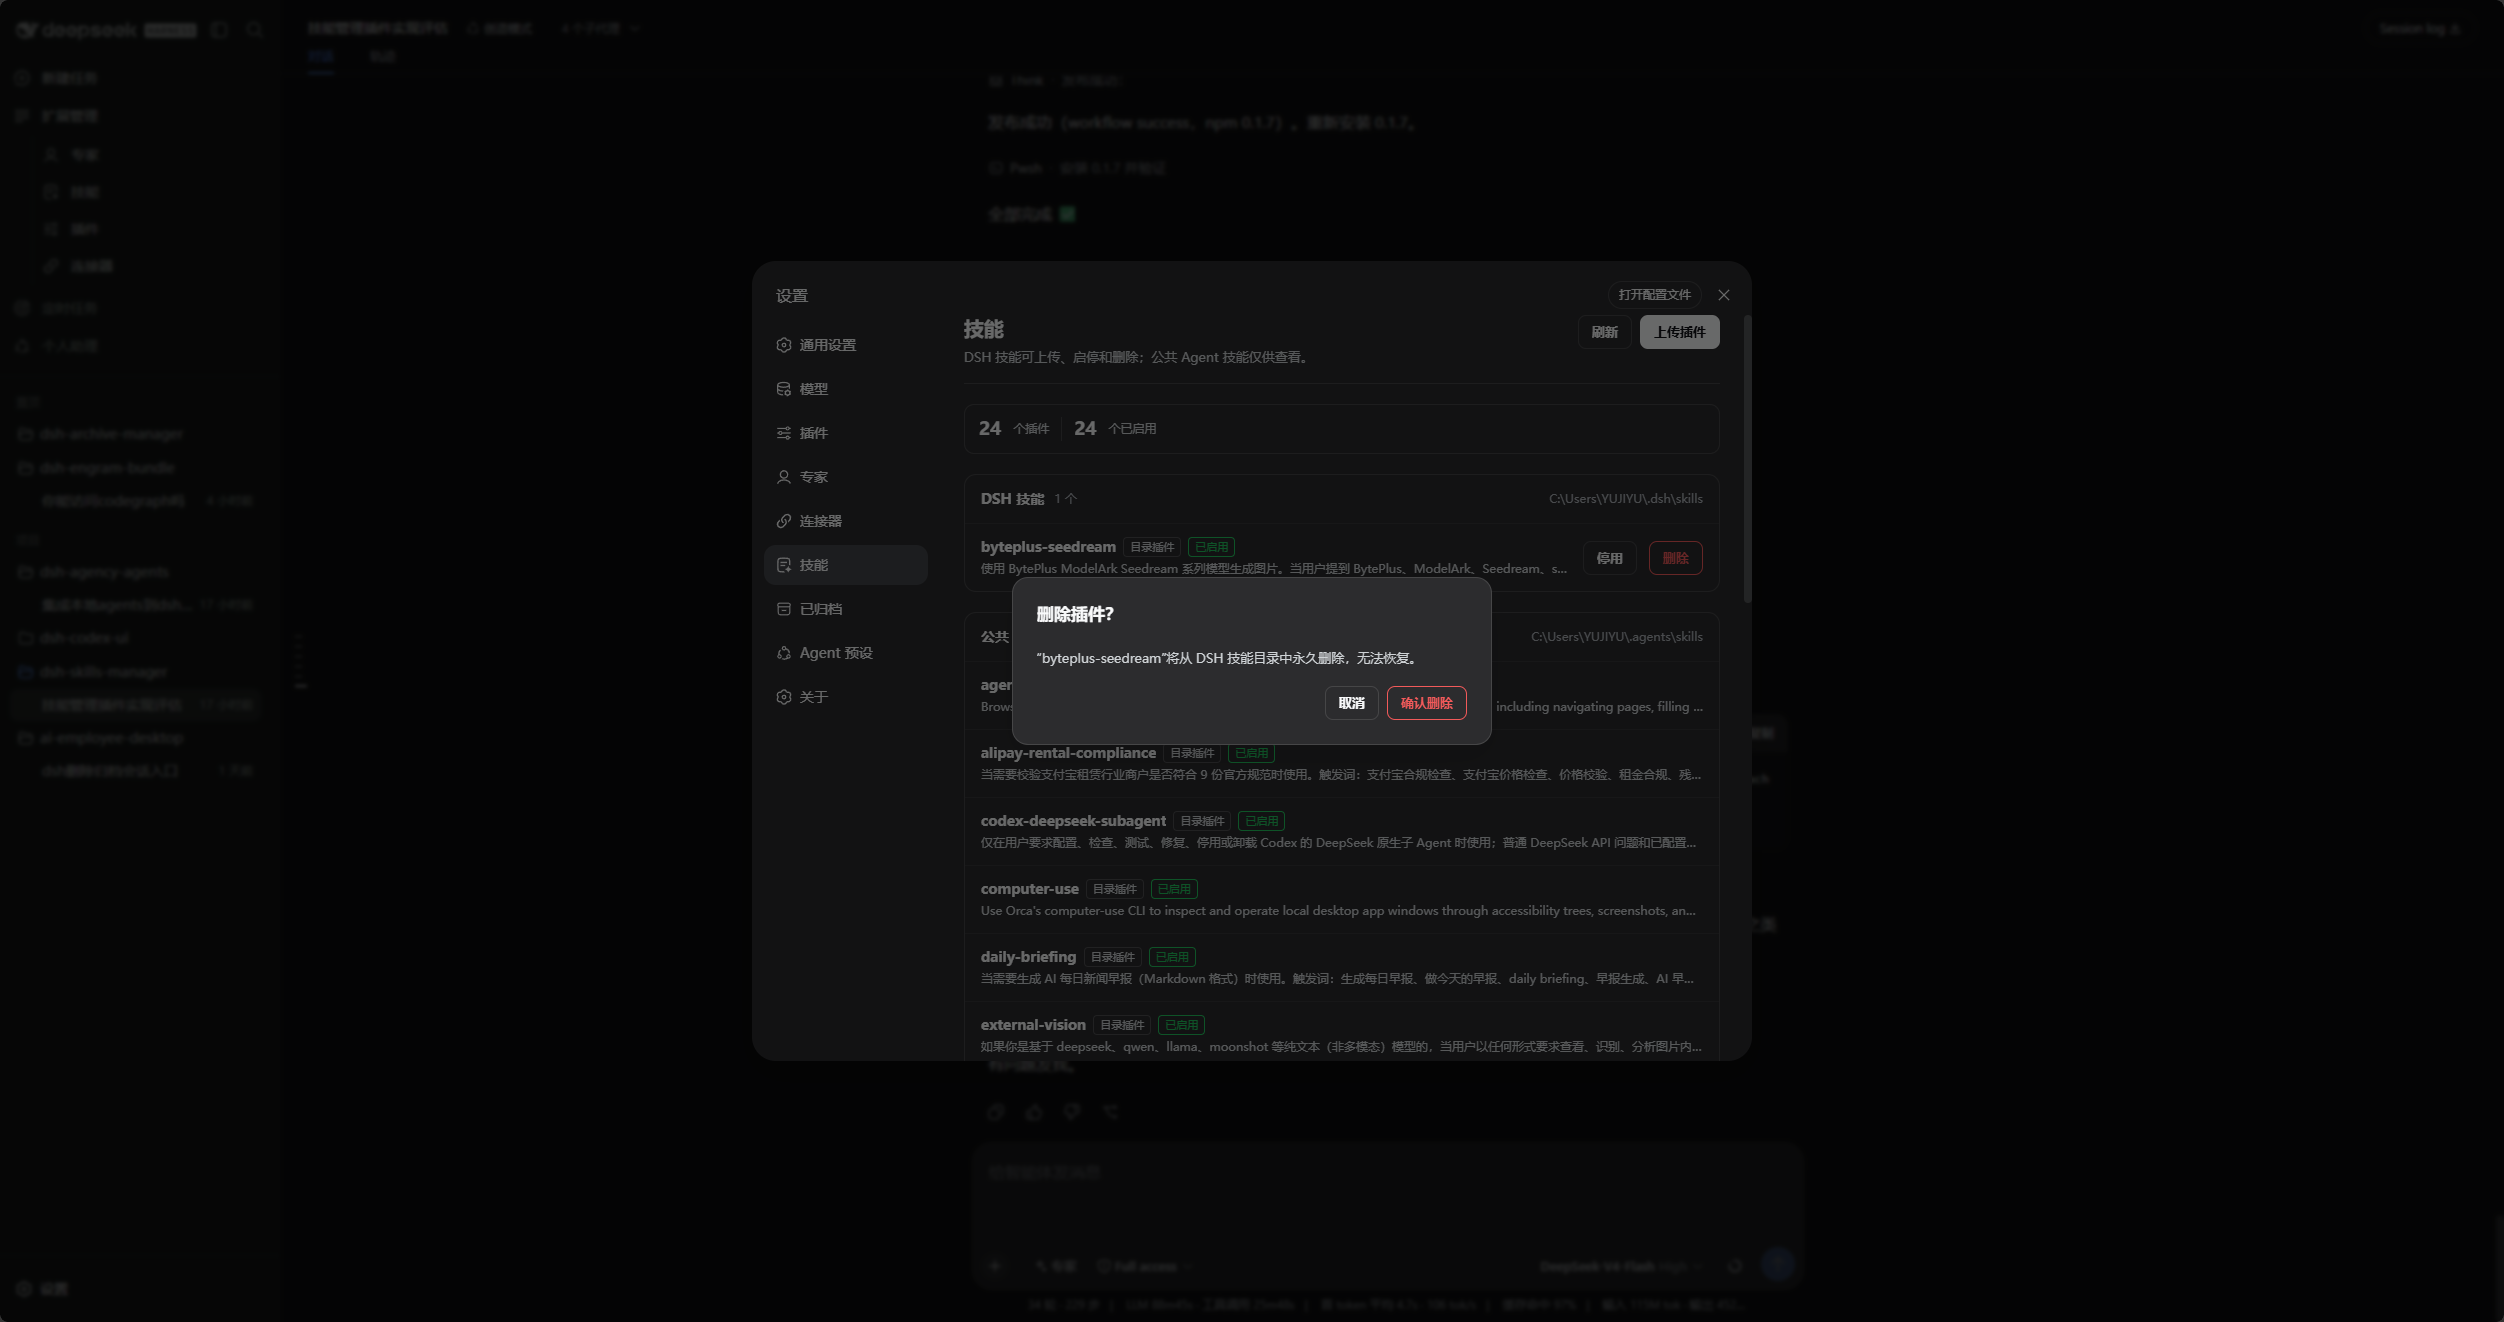
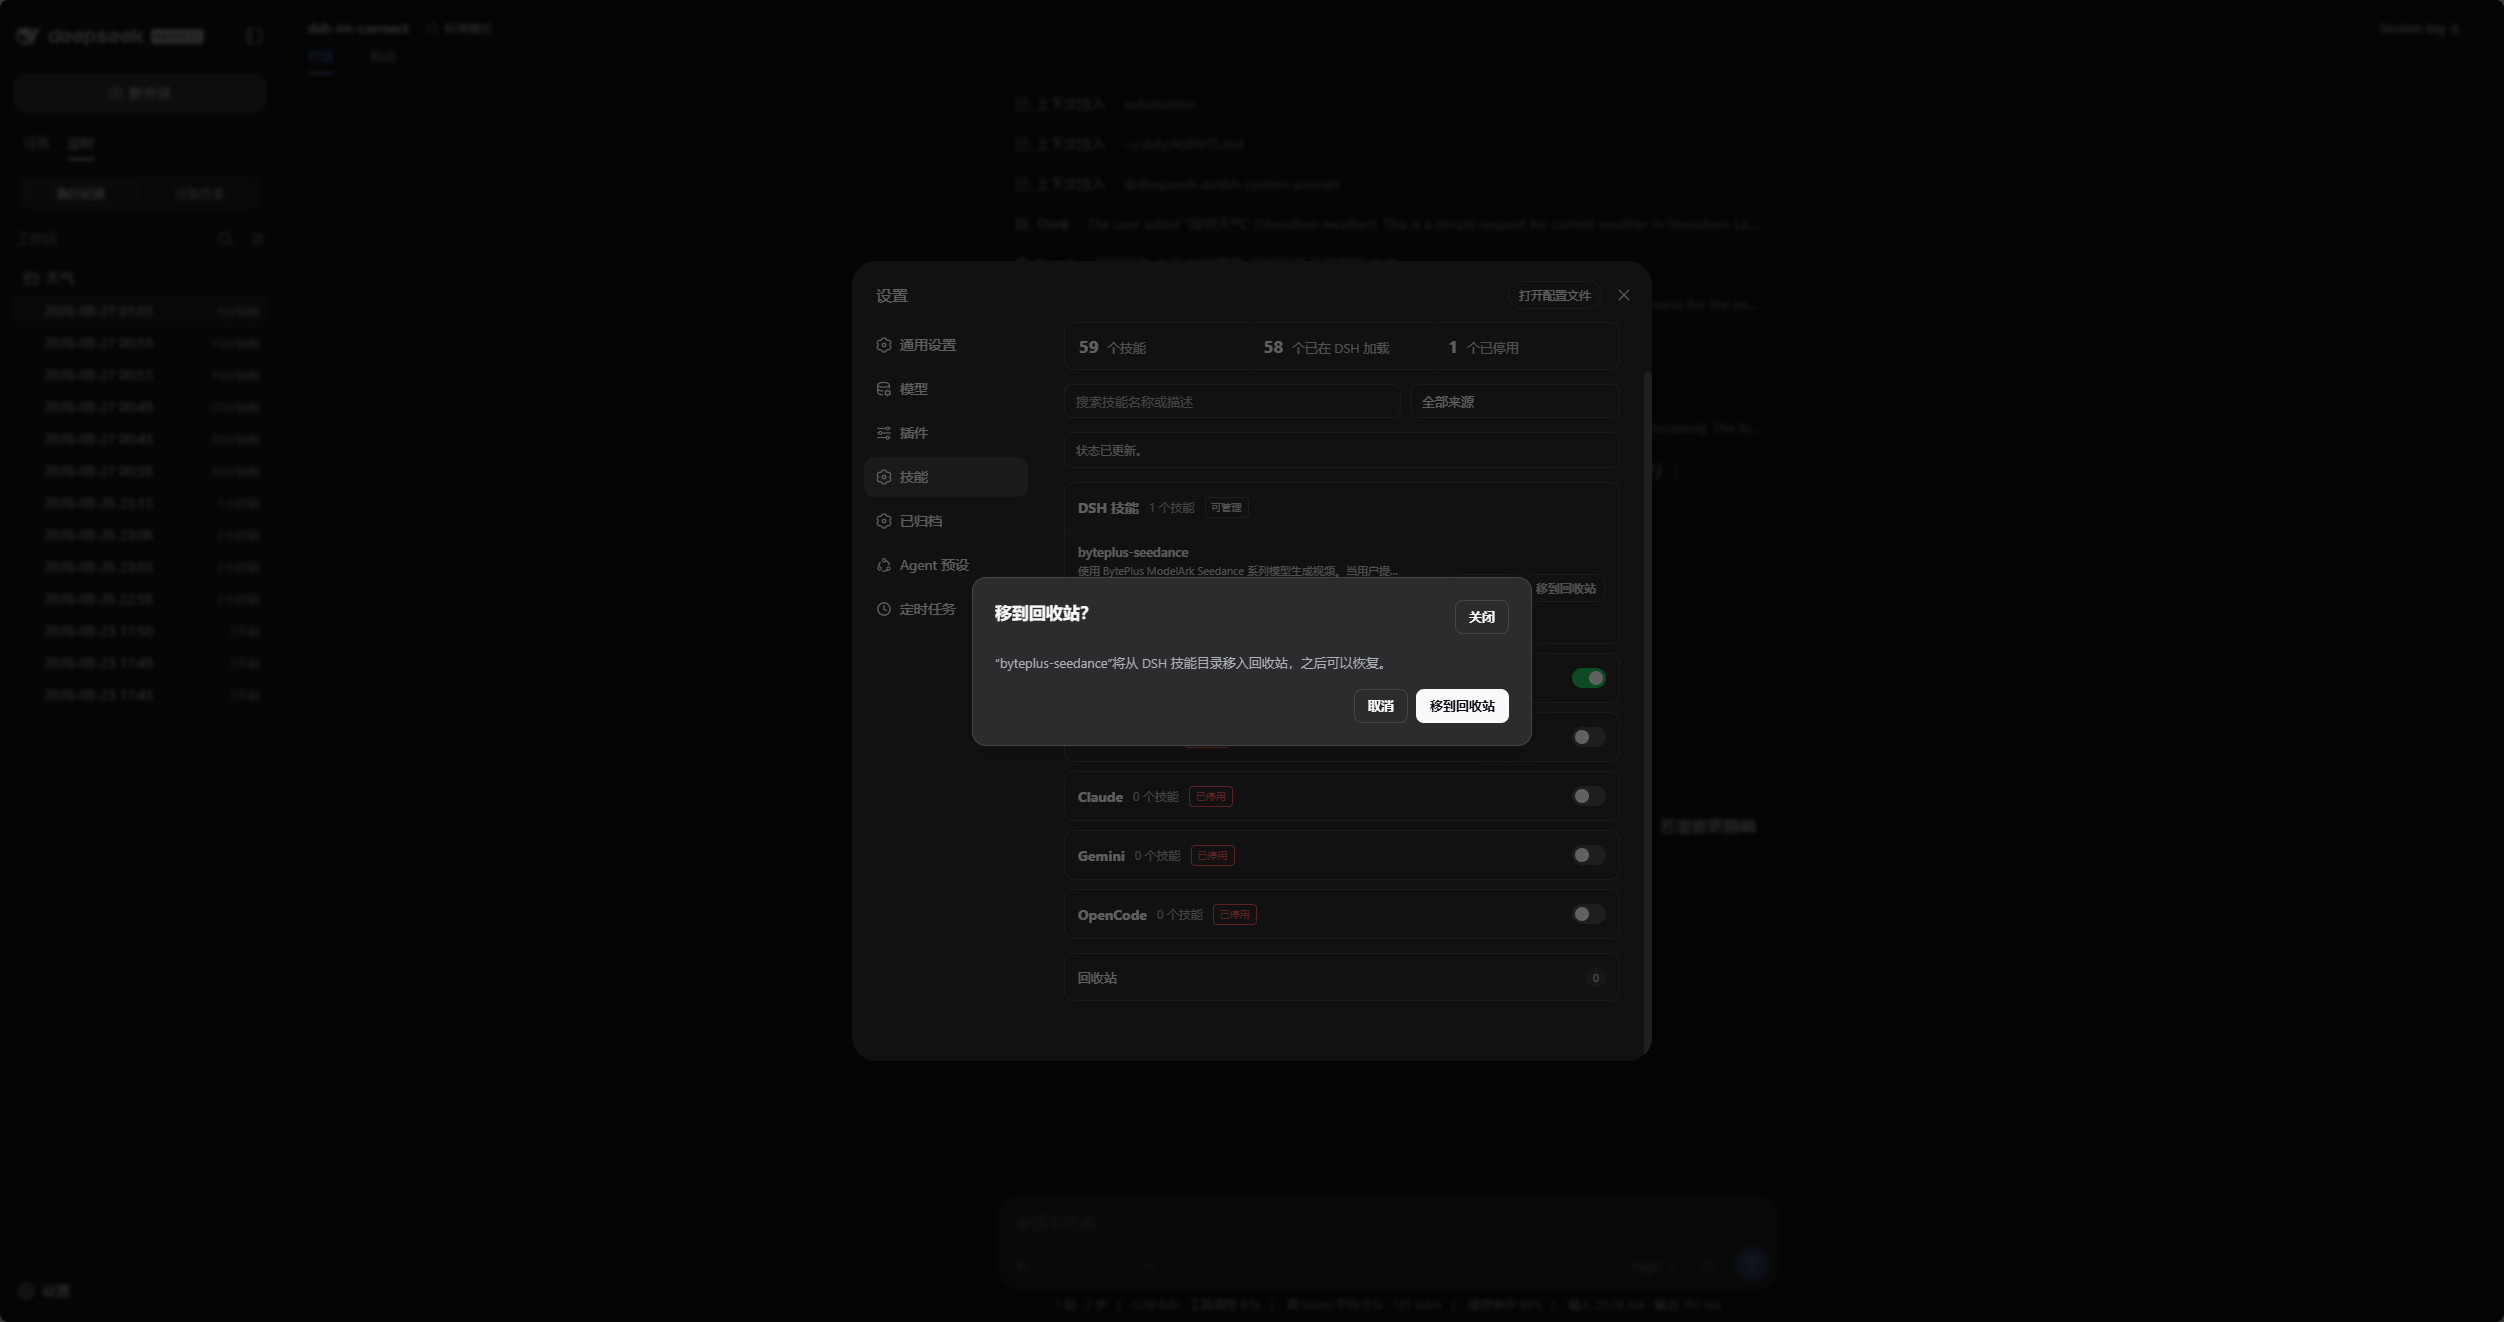
docs: 更新技能管理器截图

diff --git a/docs/02-产品与业务/01-使用说明.md b/docs/02-产品与业务/01-使用说明.md
@@ -1,31 +1,25 @@
 # 使用说明
 
-更新时间：2026-08-17 12:10（Asia/Shanghai）
+更新时间：2026-08-27（Asia/Shanghai）
 
 ## 适用范围
 
-本说明面向 DSH Web 的「设置 → 技能」面板使用者。插件管理两个用户级技能目录，不管理项目级技能目录。
+本说明面向 DSH Web 的「设置 → 技能」面板使用者。插件统一加载 DSH、公共 Agent、Codex、Claude、Gemini 与 OpenCode 的用户级 Skills，不管理项目级技能目录。
 
 <p align="center">
-  <img src="../../assets/screenshots/skills-manager.png" alt="技能管理设置页面" width="960">
+  <img src="../../assets/screenshots/skills-manager-v2-preview.png" alt="技能管理设置页面" width="960">
 </p>
 
-> 截图展示「设置 → 技能」面板。可用分类和搜索收窄列表；DSH 本地技能可启用、停用和删除；公共 Agent 技能只读。
+> 截图展示「设置 → 技能」面板。可按来源折叠、搜索和筛选；DSH 本地技能可启停、查看详情并移入回收站，外部技能由管理器加载但源文件保持只读。
 
 ## 目录权限
 
 | 技能来源 | 可以做什么 | 不可以做什么 |
 |---|---|---|
-| DSH 技能目录 `$DSH_HOME\skills` | 查看、启用、停用、上传、覆盖、删除 | 无 |
-| 公共 Agent 技能目录 `$DSH_AGENTS_HOME\skills` | 查看 | 启用、停用、上传、覆盖、删除 |
+| DSH 技能目录 `$DSH_HOME\skills` | 查看、启用、停用、导入、覆盖、移入回收站 | 无 |
+| 公共 Agent、Codex、Claude、Gemini、OpenCode | 查看、通过管理器策略启停 | 导入、覆盖、删除或改写源文件 |
 
-公共 Agent 目录为共享目录；即使直接调用接口，服务端也会拒绝所有修改操作。
-
-<p align="center">
-  <img src="../../assets/screenshots/skills-public.png" alt="未安装本地技能时的公共 Agent 列表" width="960">
-</p>
-
-> 未安装 DSH 本地技能时，仍可按分类或关键词查看公共 Agent 技能列表。
+外部来源的启停状态写入 `$DSH_HOME\skills-manager\state.json`；不会修改公共目录或其他 Agent 的原始技能文件。
 
 ## 常见操作
 
@@ -35,13 +29,15 @@
 
 ### 启用或停用
 
-仅在 DSH 技能条目右侧点击「启用」或「停用」。停用会同时关闭模型调用和 `/` 手动调用；启用会恢复两种入口。公共 Agent 技能只读，不提供任何修改按钮。
+DSH 技能的开关会更新自身调用策略；外部技能的开关只更新管理器本地状态。停用会同时关闭模型调用和 `/` 手动调用，启用会恢复两种入口。
+
+### 查看正文与诊断
+
+点击「查看详情」可检查技能来源路径、诊断结果、Markdown 正文和解析后的 frontmatter。详情为只读展示，不会自动修改外部源文件。
 
 <p align="center">
-  <img src="../../assets/screenshots/slash-command.png" alt="启用本地技能后的斜杠命令" width="640">
+  <img src="../../assets/screenshots/skill-detail.png" alt="技能正文与诊断详情" width="960">
 </p>
-
-> 启用后，聊天输入框可通过 `/` 命令调用该本地技能。
 
 ### 上传 DSH 技能
 
@@ -52,25 +48,21 @@
 
 上传会复制整个插件目录，以保留脚本、模板和资源文件。
 
-<p align="center">
-  <img src="../../assets/screenshots/upload-plugin.png" alt="上传插件弹窗" width="960">
-</p>
-
-> 整个流程只使用一个弹窗和一次原生选择，不要求本机绝对路径，也不会再打开第二个目录选择器。
+整个流程只使用一个弹窗和一次原生选择，不要求本机绝对路径，也不会再打开第二个目录选择器。
 
 ### 删除 DSH 技能
 
-只在 DSH 技能分组中使用「删除」。确认后会删除该技能文件或目录；公共 Agent 分组没有删除入口。
+只在 DSH 技能分组中使用「移到回收站」。确认后技能会离开 DSH 技能目录并进入管理器回收站；之后可以恢复，也可以执行二次永久删除。外部来源不提供删除入口。
 
 <p align="center">
-  <img src="../../assets/screenshots/delete-plugin.png" alt="删除插件确认框" width="960">
+  <img src="../../assets/screenshots/delete-plugin.png" alt="移到回收站确认框" width="960">
 </p>
 
-> 删除前会弹出确认框。确认后从 DSH 技能目录永久删除，无法恢复。
+> 移入回收站前会弹出确认框；该步骤可恢复，只有回收站中的「永久删除」才不可恢复。
 
 ### 关闭弹窗
 
-按 ESC 只关闭当前最上层弹窗。若存在覆盖或删除确认框，会先关闭确认框，再关闭上传框，设置页保持打开。
+按 ESC 只关闭当前最上层弹窗。若存在覆盖或移到回收站确认框，会先关闭确认框，再关闭上传框，设置页保持打开。
 
 ## 常见问题
 

diff --git a/README.md b/README.md
@@ -34,17 +34,13 @@ Browse by source or search in **Settings → Skills**. External Agent sources ar
 
 ![Skills Manager source-first settings page](assets/screenshots/skills-manager-v2-preview.png)
 
-Shared Agent skills stay visible when the DSH-local group is empty:
+Open any skill to inspect its source path, diagnostics, Markdown body, and parsed frontmatter:
 
-![Shared Agent skills remain visible](assets/screenshots/skills-public.png)
+![Skill details and diagnostics](assets/screenshots/skill-detail.png)
 
-The compact upload dialog accepts `.zip`, a skill folder, a single `SKILL.md`, or drag-and-drop in one flow. It uses native browser pickers and never asks for an absolute path or opens a second chooser:
+Moving a DSH-local skill to Trash requires confirmation and remains recoverable until it is permanently deleted:
 
-![Upload plugin dialog](assets/screenshots/upload-plugin.png)
-
-Enabling a DSH-local skill restores its `/` command in the chat composer:
-
-![Chat slash command after enabling a local skill](assets/screenshots/slash-command.png)
+![Move a skill to Trash confirmation](assets/screenshots/delete-plugin.png)
 
 ## DSH product ecosystem
 
@@ -144,8 +140,6 @@ Open **Settings → Skills**, then use the panel as follows:
 | Create or import | Create in Settings, or import `.zip`, a folder containing `SKILL.md`, or one `SKILL.md`. | `$DSH_HOME/skills` |
 | Create from conversation | Let an Agent call `create_skill`; DSH asks for approval before writing. | `$DSH_HOME/skills` |
 | Delete and recover | Move to Trash, restore, or permanently delete in a second step. | DSH-local skills |
-
-![Delete plugin confirmation](assets/screenshots/delete-plugin.png)
 
 > Toggling a shared source never changes its files; only DSH-local skills can move to Trash.
 

diff --git a/README.zh-CN.md b/README.zh-CN.md
@@ -34,17 +34,13 @@
 
 ![按来源管理技能的设置页面](assets/screenshots/skills-manager-v2-preview.png)
 
-本地 DSH 技能为空时，公共 Agent 技能仍然可见：
+打开任意技能可查看来源路径、诊断结果、Markdown 正文与解析后的 frontmatter：
 
-![未安装本地技能时仍可查看公共 Agent 技能](assets/screenshots/skills-public.png)
+![技能正文与诊断详情](assets/screenshots/skill-detail.png)
 
-紧凑上传弹窗在同一个流程中支持 `.zip`、技能文件夹、单个 `SKILL.md` 与拖放。它只使用浏览器原生选择器，不要求绝对路径，也不会再打开第二个选择器：
+DSH 本地技能移入回收站前需要确认；永久删除前仍可恢复：
 
-![上传插件弹窗](assets/screenshots/upload-plugin.png)
-
-启用 DSH 本地技能后，聊天输入框会恢复对应的 `/` 命令：
-
-![启用本地技能后的斜杠命令](assets/screenshots/slash-command.png)
+![移到回收站确认框](assets/screenshots/delete-plugin.png)
 
 ## DSH 产品生态
 
@@ -144,8 +140,6 @@ dsh --profile web --dump-config
 | 创建或导入 | 在设置页创建，或导入 `.zip`、包含 `SKILL.md` 的文件夹、单个 `SKILL.md`。 | `$DSH_HOME\skills` |
 | 从对话创建 | 让 Agent 调用 `create_skill`；写入前由 DSH 审批界面确认。 | `$DSH_HOME\skills` |
 | 删除与恢复 | 删除先进入回收站；可恢复或永久二次删除。 | DSH 本地技能 |
-
-![删除插件确认框](assets/screenshots/delete-plugin.png)
 
 > 共享来源的启停不会修改源文件；只有 DSH 本地技能可以移入回收站。
 
